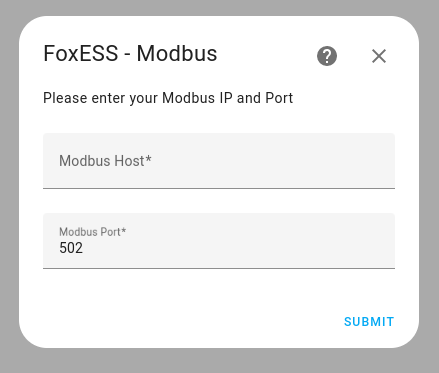
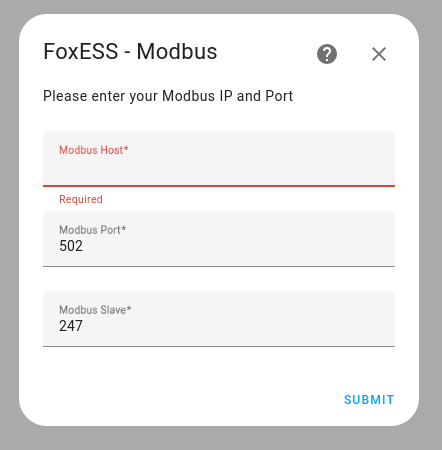
Added configurable slave ID

diff --git a/custom_components/foxess_modbus/config_flow.py b/custom_components/foxess_modbus/config_flow.py
@@ -12,6 +12,7 @@ from .const import INVERTER_CONN
 from .const import INVERTER_TYPE
 from .const import MODBUS_HOST
 from .const import MODBUS_PORT
+from .const import MODBUS_SLAVE
 from .modbus_client import ModbusClient
 from .modbus_controller import ModbusController
 
@@ -48,6 +49,10 @@ class ModbusFlowHandler(config_entries.ConfigFlow, domain=DOMAIN):
                     MODBUS_PORT,
                     default=self._data.get(MODBUS_PORT, 502),
                 ): int,
+                vol.Required(
+                    MODBUS_SLAVE,
+                    default=self._data.get(MODBUS_SLAVE, 247),
+                ): int,
             }
         )
 
@@ -70,7 +75,9 @@ class ModbusFlowHandler(config_entries.ConfigFlow, domain=DOMAIN):
         """Handle a flow initialized by the user."""
         if user_input is not None:
             result, inv_type, conn_type = await self._autodetect_modbus(
-                user_input[MODBUS_HOST], user_input[MODBUS_PORT]
+                user_input[MODBUS_HOST],
+                user_input[MODBUS_PORT],
+                user_input[MODBUS_SLAVE],
             )
             if result:
                 user_input[INVERTER_TYPE] = inv_type
@@ -85,10 +92,10 @@ class ModbusFlowHandler(config_entries.ConfigFlow, domain=DOMAIN):
             step_id="user", data_schema=self._modbus_schema, errors=self._errors
         )
 
-    async def _autodetect_modbus(self, host: str, port: str):
+    async def _autodetect_modbus(self, host: str, port: int, slave: int):
         """Return true if modbus connection can be established"""
         try:
-            modbus = ModbusClient(host, port)
+            modbus = ModbusClient(host, port, slave)
             controller = ModbusController(None, modbus, None)
             return await controller.autodetect()
         except Exception as ex:  # pylint: disable=broad-except

diff --git a/custom_components/foxess_modbus/modbus_client.py b/custom_components/foxess_modbus/modbus_client.py
@@ -5,16 +5,16 @@ from pymodbus.exceptions import ConnectionException
 from pymodbus.exceptions import ModbusIOException
 
 _LOGGER = logging.getLogger(__name__)
-_SLAVE = 247
 
 
 class ModbusClient:
     """Modbus"""
 
-    def __init__(self, host, port=502):
+    def __init__(self, host, port, slave):
         """Init"""
         self._host = host
         self._port = port
+        self._slave = slave
         self._client = ModbusTcpClient(self._host, self._port)
 
     def _connect(self):
@@ -33,11 +33,11 @@ class ModbusClient:
         _LOGGER.debug(f"Reading register: ({start_address}, {num_registers})")
         if holding:
             response = self._client.read_holding_registers(
-                start_address, num_registers, _SLAVE
+                start_address, num_registers, self._slave
             )
         else:
             response = self._client.read_input_registers(
-                start_address, num_registers, _SLAVE
+                start_address, num_registers, self._slave
             )
         if response.isError():
             raise ModbusIOException(f"Error reading registers: {response}")
@@ -59,11 +59,11 @@ class ModbusClient:
 
         if len(register_values) > 1:
             response = self._client.write_registers(
-                register_address, register_values, _SLAVE
+                register_address, register_values, self._slave
             )
         else:
             response = self._client.write_register(
-                register_address, int(register_values[0]), _SLAVE
+                register_address, int(register_values[0]), self._slave
             )
         if response.isError():
             raise ModbusIOException(f"Error writing holding register: {response}")

diff --git a/custom_components/foxess_modbus/__init__.py b/custom_components/foxess_modbus/__init__.py
@@ -21,6 +21,7 @@ from .const import INVERTER_TYPE
 from .const import MODBUS
 from .const import MODBUS_HOST
 from .const import MODBUS_PORT
+from .const import MODBUS_SLAVE
 from .const import PLATFORMS
 from .const import STARTUP_MESSAGE
 from .modbus_client import ModbusClient
@@ -52,11 +53,12 @@ async def async_setup_entry(hass: HomeAssistant, entry: ConfigEntry):
 
     modbus_host = entry.data.get(MODBUS_HOST, "")
     modbus_port = entry.data.get(MODBUS_PORT, 502)
+    modbus_slave = entry.data.get(MODBUS_SLAVE, 247)
 
     inverter_type = entry.data.get(INVERTER_TYPE)
     connection_type = entry.data.get(INVERTER_CONN)
 
-    modbus_client = ModbusClient(modbus_host, modbus_port)
+    modbus_client = ModbusClient(modbus_host, modbus_port, modbus_slave)
     modbus_controller = ModbusController(hass, modbus_client, connection_type)
 
     hass.data[DOMAIN][entry.entry_id] = {

diff --git a/custom_components/foxess_modbus/const.py b/custom_components/foxess_modbus/const.py
@@ -15,9 +15,10 @@ SENSOR = "sensor"
 PLATFORMS = [SENSOR]
 ATTR_ENTRY_TYPE = "entry_type"
 
-# Fox Options
+# Modbus Options
 MODBUS_HOST = "modbus_host"
 MODBUS_PORT = "modbus_port"
+MODBUS_SLAVE = "modbus_slave"
 
 INVERTER_TYPE = "modbus_type"
 INVERTER_CONN = "modbus_conn"

diff --git a/README.md b/README.md
@@ -44,6 +44,7 @@ Recommend installation through [HACS][hacs]
 
 - **Modbus Host**: IP Adddress of your Modbus (i.e. W610/LAN) host
 - **Modbus Port**: Port number (default 502)
+- **Modbus Slave**: Slave ID (default 247)
 
 ![Setup](images/setup.png)
 
